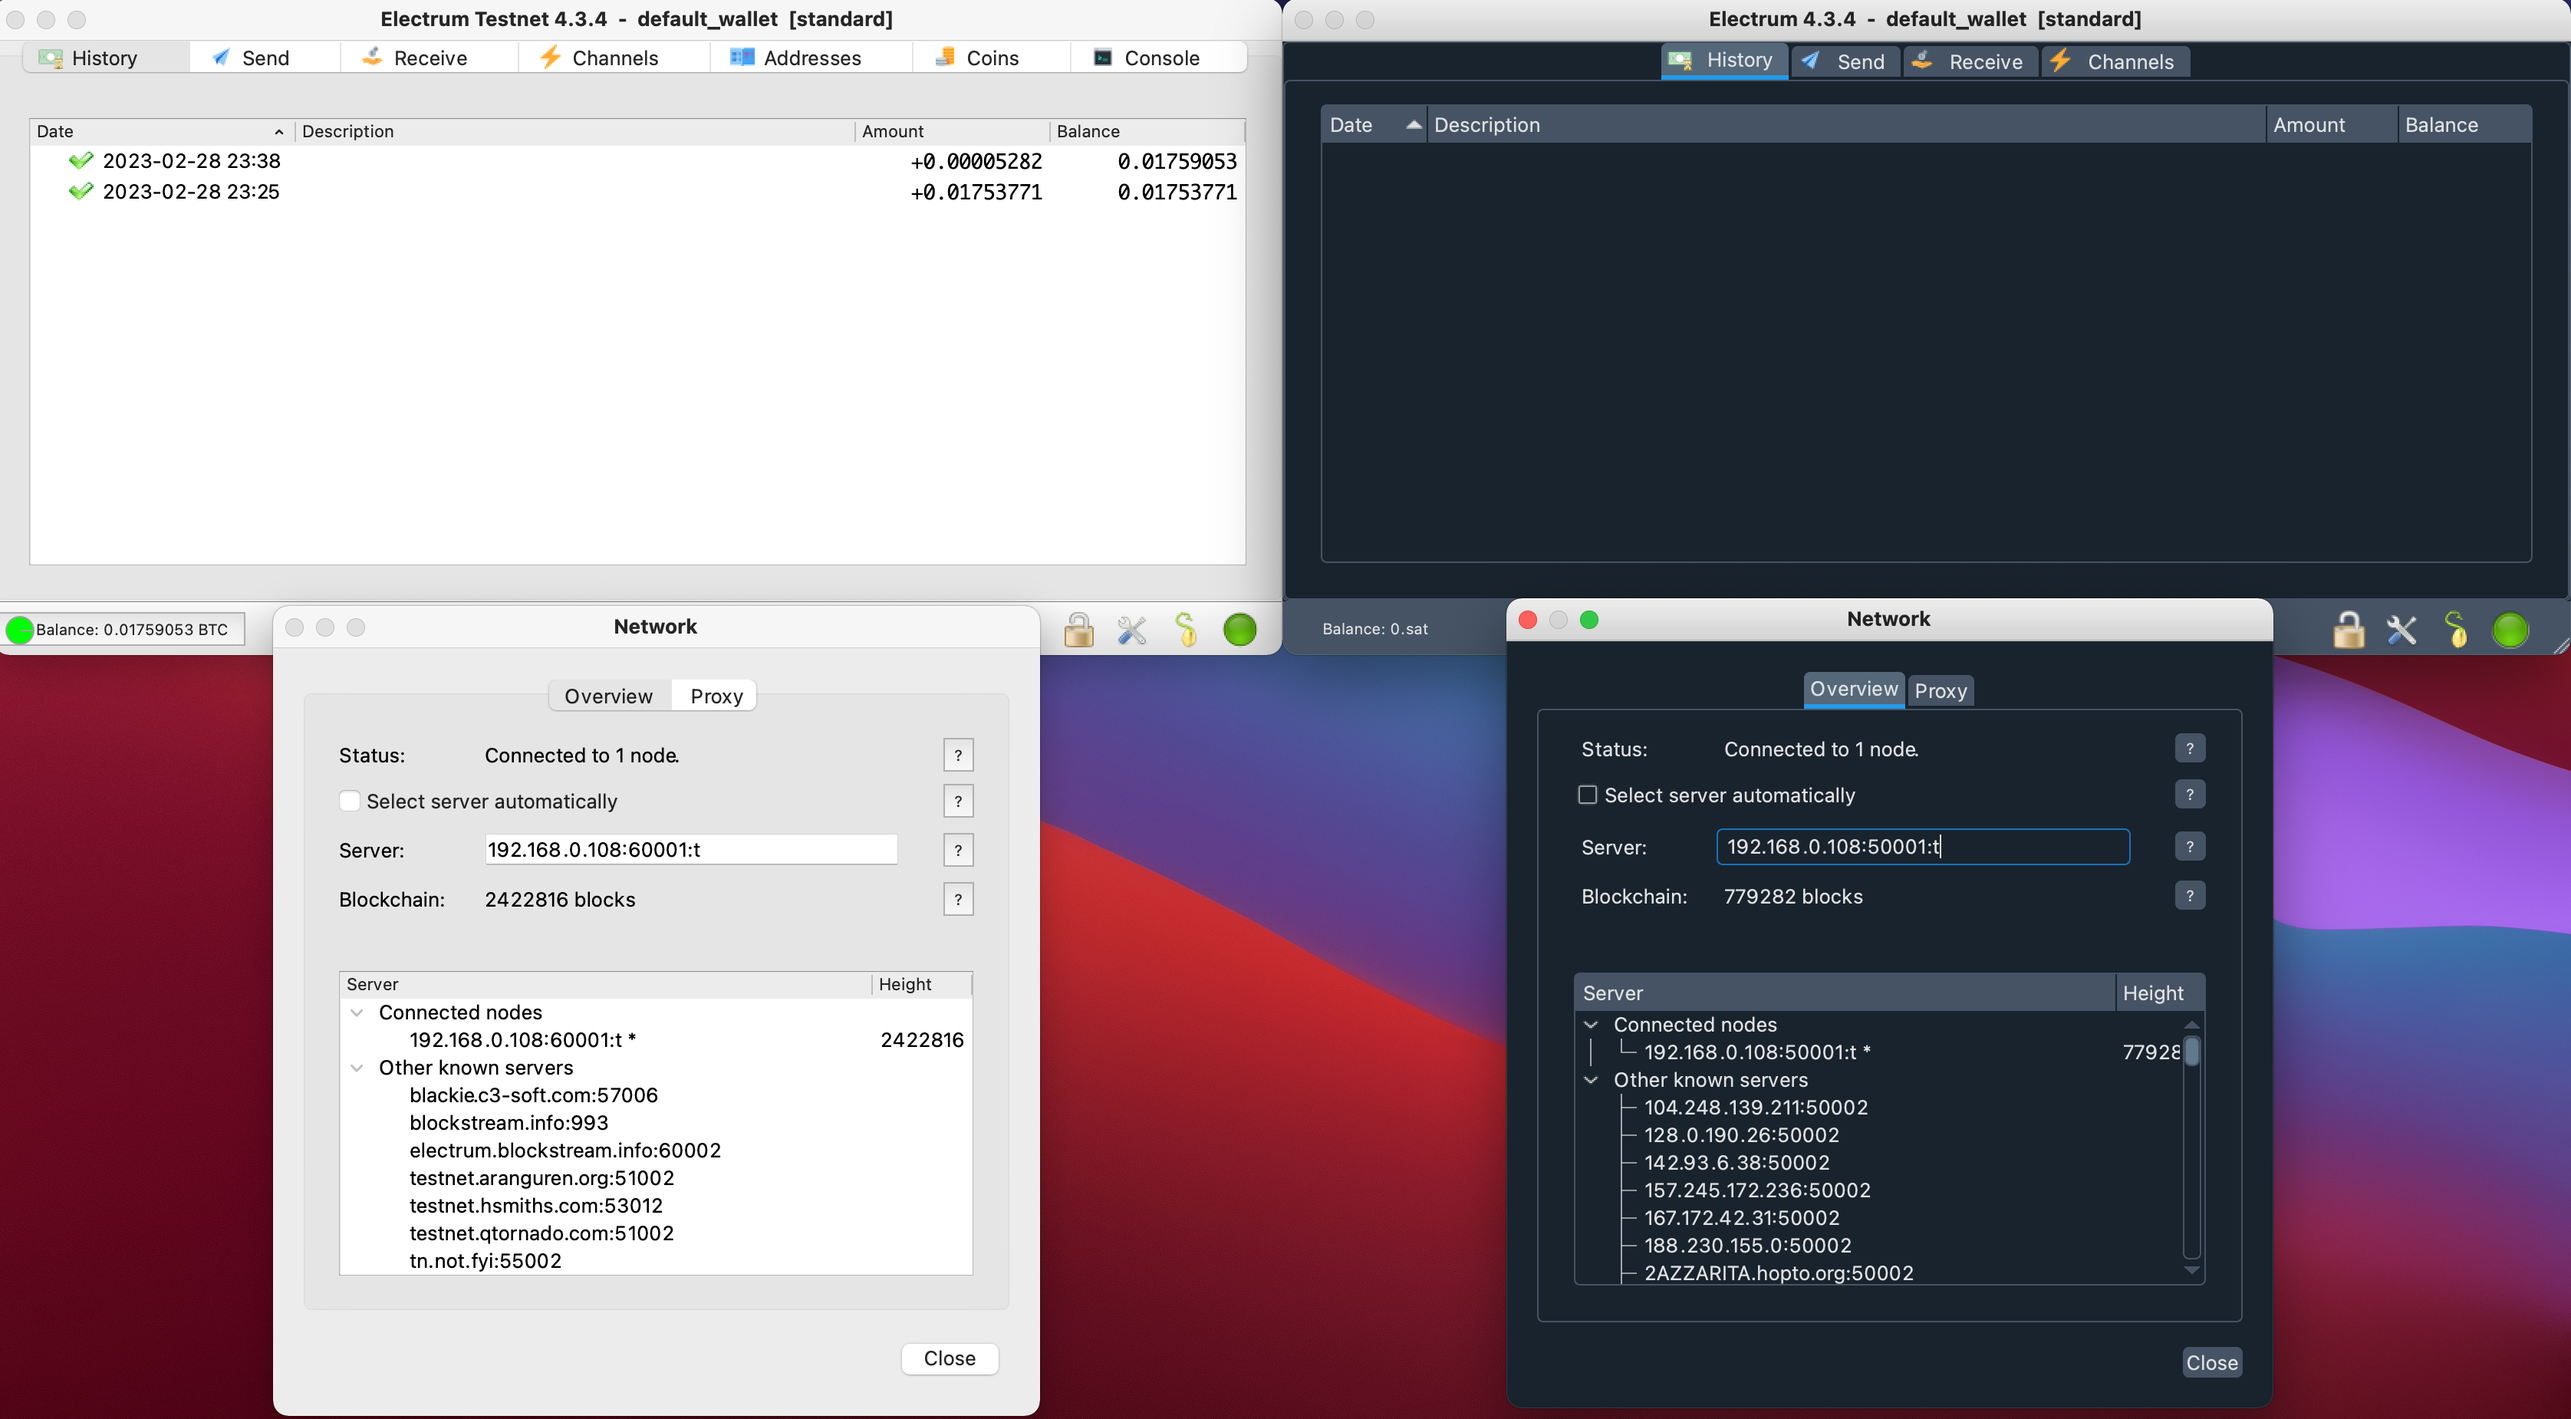
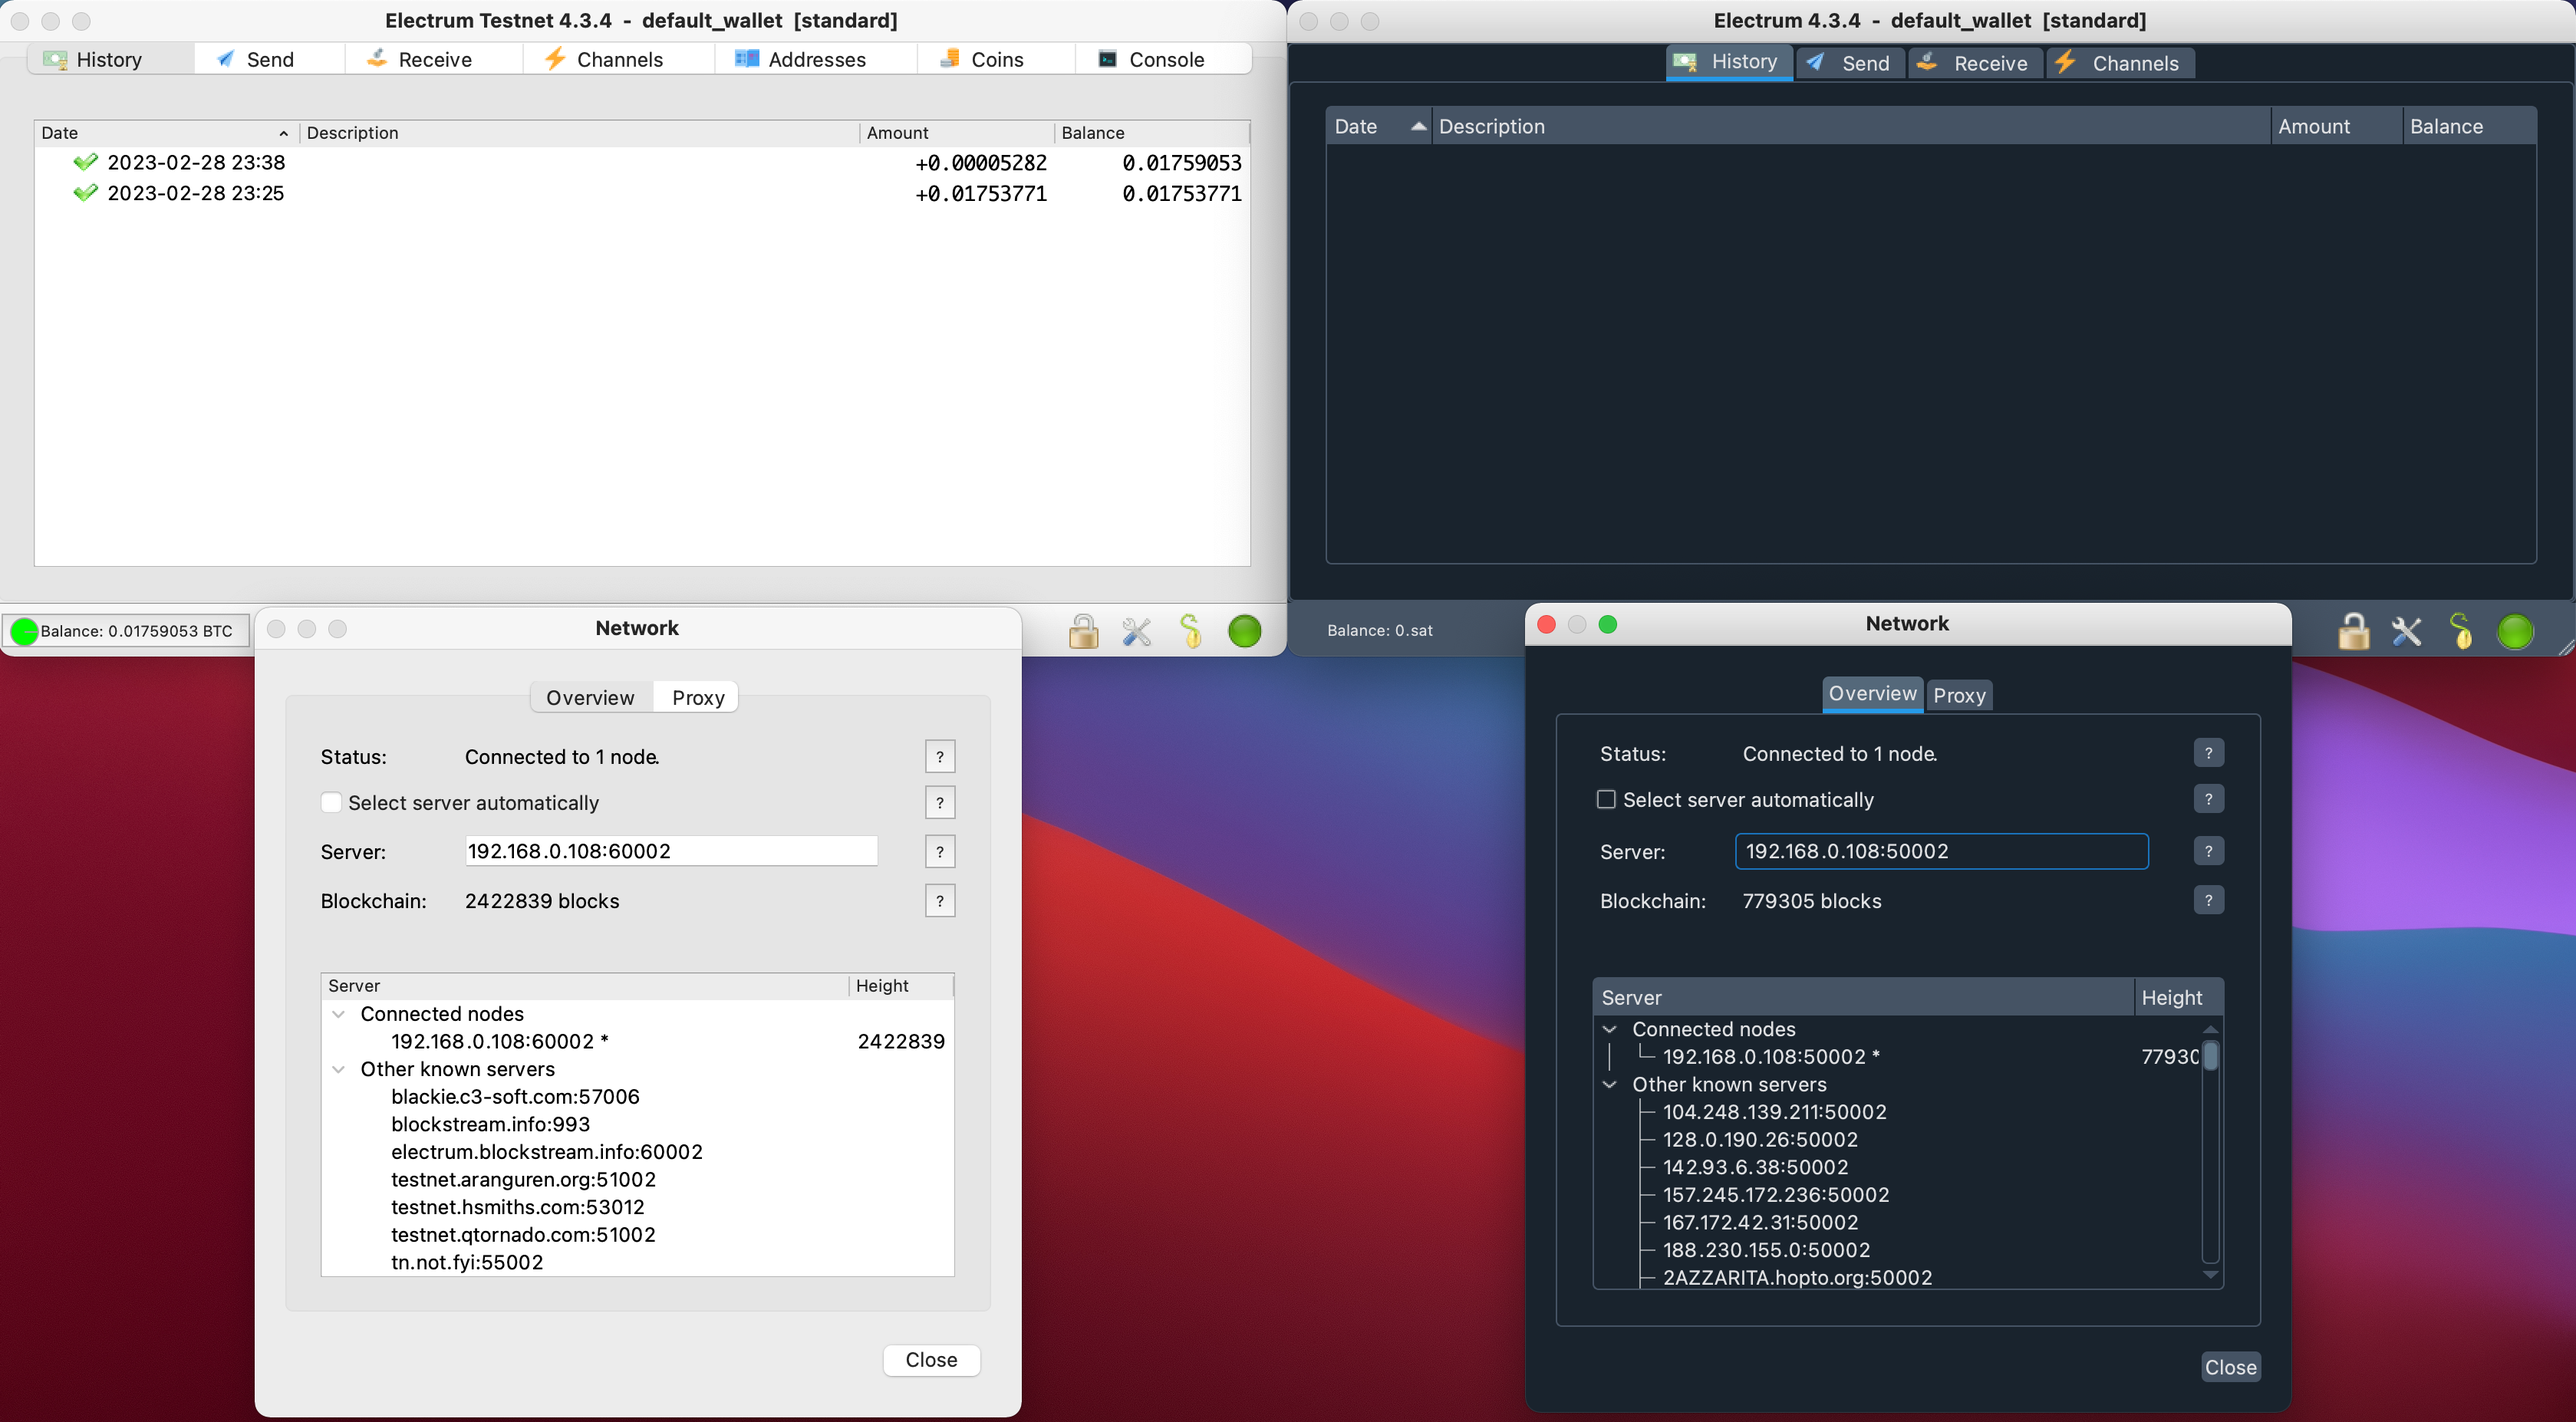
adding nginx as reverse proxy, connect client's wallets to the electrum server

diff --git a/README.md b/README.md
@@ -92,8 +92,6 @@ To be able to work with Bitcoin blockchain data I need indexed blockchain. For t
 
 Installation and initial setup was done following official [documentation](https://github.com/romanz/electrs/blob/master/doc/install.md) together with two parts videos on youtube: [part 1](https://www.youtube.com/watch?v=mbG7hBMWQrs), [part 2](https://www.youtube.com/watch?v=IbOxgdHsyRI)<br>
 
-Only change was from the video's configuration is to expose server to **0.0.0.0** as I want to access the servers from client and I haven't been able to setup iptables to properly forward outcoming connection to these ports to **127.0.0.1**.<br>
-
 My electrs config for mainnet looks like this:
 ```
 network = "bitcoin"
@@ -101,8 +99,8 @@ daemon_dir= "$HOME/.bitcoin"
 daemon_rpc_addr = "127.0.0.1:8332"
 daemon_p2p_addr = "127.0.0.1:8333"
 
-electrum_rpc_addr = "0.0.0.0:50001"
-monitoring_addr = "0.0.0.0:4225"
+electrum_rpc_addr = "127.0.0.1:50001"
+monitoring_addr = "127.0.0.1:4225"
 db_dir = "home/user/.electrs/db"
 index_lookup_limit = 1000
 
@@ -116,8 +114,8 @@ daemon_dir= "/home/jirigrill/.bitcoin"
 daemon_rpc_addr = "127.0.0.1:18332"
 daemon_p2p_addr = "127.0.0.1:18333"
 
-electrum_rpc_addr = "0.0.0.0:60001"
-monitoring_addr = "0.0.0.0:4226"
+electrum_rpc_addr = "127.0.0.1:60001"
+monitoring_addr = "127.0.0.1:4226"
 db_dir = "/home/user/.electrs/testnet/db"
 index_lookup_limit = 1000
 
@@ -176,16 +174,23 @@ To became self sorveign on Bitcoin network I have to start using wallet connecte
 **goal of this section:** Install Electrum wallet on the server and clent via GUI and connect it to my Elctrum servers.
 
 ### isntall Electrum wallet on the server
-I download source code/Appimage and signatures from this [webpage](https://electrum.org/#download) and install it on the server. Then I followed this straightforward [video](https://youtu.be/mbG7hBMWQrs?t=410) and connected to my Electrum server - in that case I had exposed my servers on **127.0.0.1**. Everything works smoothly as expected.
+I download source code/Appimage and signatures from this [webpage](https://electrum.org/#download) and install it on the server. Then I followed this straightforward [video](https://youtu.be/mbG7hBMWQrs?t=410) and connected to my Electrum server smoothly.
 
 ### install Electrum wallet on the client
-Before I can connect from my client's laptop to the server I need to open ports on there. For that I have updated `/etc/iptables/rules.v4` where I added:
+Before I can connect from my client's laptop to the server I need to install proxy server and open ports to be able to connect from client outside of the server.
+
+#### install proxy server
+The whole process is very clearly exlained in the second already mentioned [video](https://youtu.be/IbOxgdHsyRI). Only thing which I had an issue with was that I missed package `libnginx-mod-stream` when I was run nginx in reverse proxy mode. This was solved by installing the package by running `sudo apt install libnginx-mod-stream`. Once I was done with nginx server, I updated my iptables config:
+
 ```
-# connections to the electrs and electrs-tesnet ports
--A TCP -p tcp -m tcp --dport 50001 -j ACCEPT
--A TCP -p tcp -m tcp --dport 60001 -j ACCEPT
-```  
-and then run `sudo service netfilter-persistent reload` to uptake new rules.<br>
+-A TCP -p tcp -m tcp --dport 50002 -j ACCEPT
+-A TCP -p tcp -m tcp --dport 60002 -j ACCEPT
+```
+
+and then run `sudo service netfilter-persistent reload` to uptake new rules and then `sudo service netfilter-persistent save` to store the change.<br>
+
+The final setup looks like:
+![reverse-proxy-setup](./pics/reverse-proxy-setup.png)
 
 As my client is running Mac OS I downloaded wallet's Mac OS image and install the app and then run `open -n /Applications/Electrum.app` and `open -n /Applications/Electrum.app --args --testnet` for testnet. It creates `.electrum` folder where I have udpated config:
 ```
@@ -211,8 +216,17 @@ As my client is running Mac OS I downloaded wallet's Mac OS image and install th
 "request_expiry": 0,
 "rpcpassword": "<rpc-password>",
 "rpcuser": "user",
-"server": "192.168.0.108:50001:t",
+"server": "192.168.0.108:50002:s",
 "show_channels_tab": true
 ```
 and in similar way for the testnet wallet. This is how does it look like on my client now:
 ![client electrums wallets](./pics/screenshot-client-electrum-wallets.png)
+
+## recap what has been done so far
+- set up old laptop as debian server
+- connect other laptop to the server via ssh
+- install Bitcoin Core from official github repository on the server
+- set up Bitcoin Core daemons for main and test nets running as services
+- install electrum server, connect it to Bitcoin Core and sync mainnet and testnet
+- isntall nginx on the server and set it up as reverse proxy, open ports 50002 and 60002 for incoming connection
+- install electrum wallets on the client and connect them to the electrum servers
